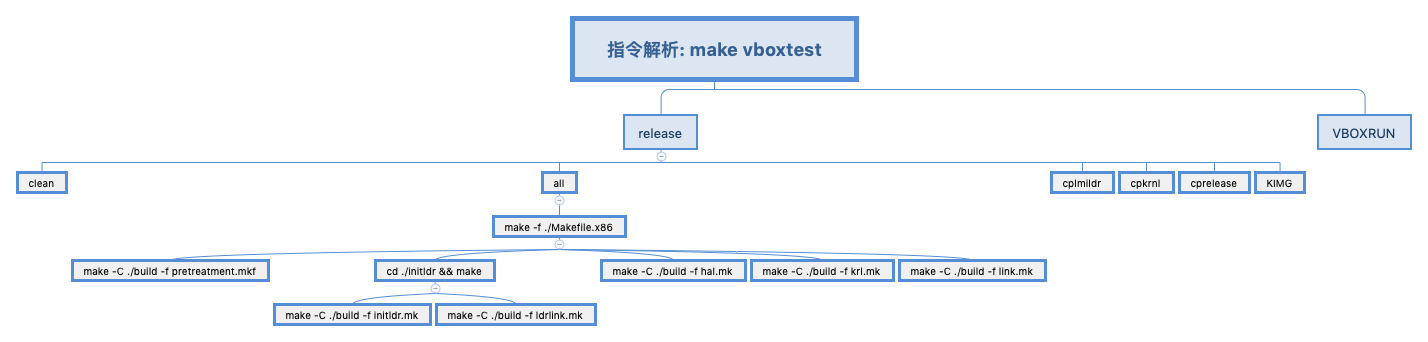
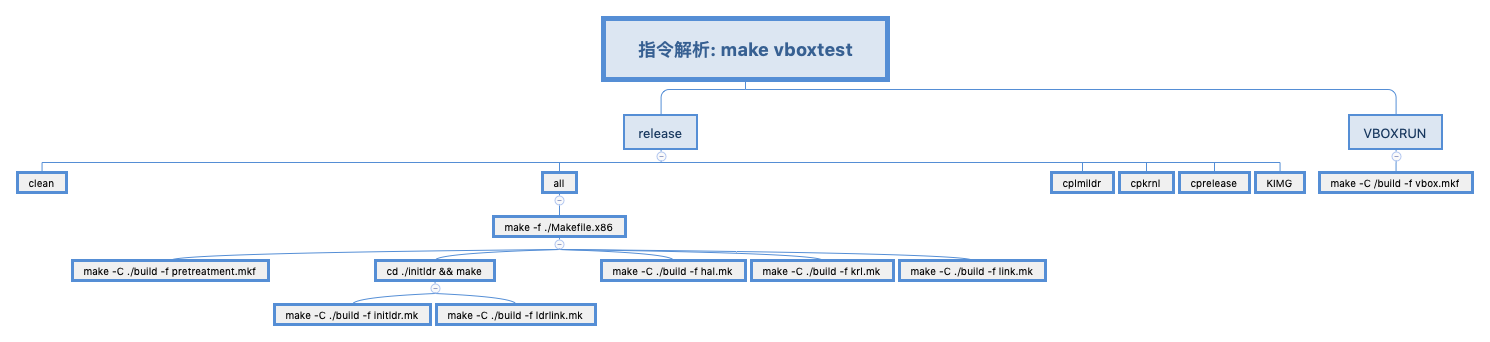
【开发】代码优化

diff --git a/docs/编译命令解析.md b/docs/编译命令解析.md
@@ -11,4 +11,119 @@ make vboxtest
 ## make -C /build -f ./pretreatment.mkf 功能
 主要功能: 生成要执行的文件
 
-类似于通过make 的查找功能
+通过make 的查找功能,按文件名找到对应的文件
+```
+%.lds : $(CCBUILDPATH)%.S
+	$(CC) $(CPPFLGSLDS) -o $@ $<
+	$(PRINTCSTR)
+
+%.mkh : $(CCBUILDPATH)%.S
+	$(CC) $(CPPFLGSLDS) -o $@ $<
+	$(PRINTCSTR)
+
+%.mki : $(CCBUILDPATH)%.S
+	$(CC) $(CPPFLGSLDS) -o $@ $<
+	$(PRINTCSTR)
+
+%.mk : %.mki
+	$(LMKFBUID) -i $< -o $@
+	$(PRINTCSTRLMK)
+```
+
+## cd /initldr && make 功能
+### make -C /initldr/build -f initldr.mk功能
+加载 krnlbuidcmd.mh、ldrobjs.mh 用于扩展功能
+
+加载 krnlbuidrule.mh，增加构建规则
+```
+%.o : $(CCBUILDPATH)%.asm
+	$(ASM) $(ASMBFLAGS) -o $@ $<
+	@echo 'AS -[M] 正在构建...' $<
+
+%.o : $(CCBUILDPATH)%.c
+	$(CC) $(BTCFLAGS) -o $@ $<
+	$(PRINTCSTR) 
+```
+
+然后 通过 执行 *.o文件查找对应得到构建规则，把对应 /initldr/include 头文件和 /initldr/idrkrl 中的 *.asm和 *.c 编译成 *.o文件
+
+### make -C /initldr/build -f ldrlink.mk 功能
+连接器功能
+
+- ld -s -T initldrimh.lds -n -Map initldrimh.map -o initldrimh.elf imginithead.o inithead.o vgastr.o
+  - 通过ld 把 imginithead.o inithead.o vgastr.o 链接成 initldrimh.elf
+  - 同时将链接映射输出到指定的文件
+
+- ld -s -T initldrkrl.lds -n  -Map initldrkrl.map -o initldrkrl.elf  ldrkrl32.o ldrkrlentry.o fs.o chkcpmm.o graph.o bstartparm.o vgastr.o
+  - 通过ld 把 ldrkrl32.o ldrkrlentry.o fs.o chkcpmm.o graph.o bstartparm.o vgastr.o 链接成 initldrkrl.elf
+  - 同时将链接映射输出到指定的文件
+
+- ld -s -T initldrsve.lds -n -Map initldrsve.map -o initldrsve.elf realintsve.o
+  - 通过 ld 把 realintsve.o 链接成 initldrsve.elf
+  - 同时将链接映射输出到指定的文件
+
+- objcopy -S -O binary initldrimh.elf initldrimh.bin 
+  - 把initldrimh.elf 以二进制的方式拷贝成 initldrimh.bin 
+
+- objcopy -S -O binary initldrkrl.elf initldrkrl.bin
+  - 把initldrkrl.elf 以二进制的方式拷贝成 initldrkrl.bin
+
+- objcopy -S -O binary initldrsve.elf initldrsve.bin
+  - 把initldrsve.elf 以二进制的方式拷贝成 initldrsve.bin
+
+## make -C /build -f hal.mk功能
+hal自动化编译
+
+加载 krnlbuidcmd.mh、ldrobjs.mh 用于扩展功能
+
+加载 krnlbuidrule.mh，增加构建规则
+```
+%.o : $(CCBUILDPATH)%.asm
+[$(ASM) $(ASMFLGS) -o $@ $<
+[$(PRINTCSTR)
+
+%.o : $(CCBUILDPATH)%.c
+[$(CC) $(CFLAGS) -o $@ $<
+[$(PRINTCSTR)
+
+%.o : $(CCBUILDPATH)%.S
+[$(CC) $(CFLAGS) -o $@ $<
+[$(PRINTCSTR)	
+```
+
+然后 通过 执行 *.o文件查找对应得到构建规则，把对应 /hal/x86/ *.asm和 *.c 编译成 *.o文件
+
+## make -C /build -f krl.mk功能
+krl自动化编译
+
+加载 krnlbuidcmd.mh、ldrobjs.mh 用于扩展功能
+
+加载 krnlbuidrule.mh，增加构建规则
+
+## make -C /build -f link.mk
+链接器功能
+
+加载 krnlbuidcmd.mh、ldrobjs.mh 用于扩展功能
+
+- ld -s -static -T cosmoslink.lds -n -Map cosmos.map -o Cosmos.elf init_entry.o hal_start.o
+   - 通过ld 把 init_entry.o hal_start.o 链接成 Cosmos.elf
+  - 同时将链接映射输出到指定的文件
+
+- objcopy -S -O binary Cosmos.elf Cosmos.bin
+  - 把Cosmos.elf 以二进制的方式拷贝成 Cosmos.bin
+
+## cplmildr 功能
+移动文件
+
+把 ./initldr/build/ 的文件移动到 ./release/
+
+## cpkrnl 功能
+进入./build目录，把 Cosmos.bin 文件移动到  ../exckrnl
+
+## cprelease 功能
+进入 ./exckrnl目录, 把 Cosmos.bin 文件 移动到 ../release
+
+## KIMG 功能
+进入./release/，通过 lmoskrlimg 把 initldrimh.bin initldrsve.bin initldrkrl.bin Cosmos.bin font.fnt logo.bmp background.bmp 打包成 Cosmos.eki
+
+## make -C /build -f vbox.mkf 功能
